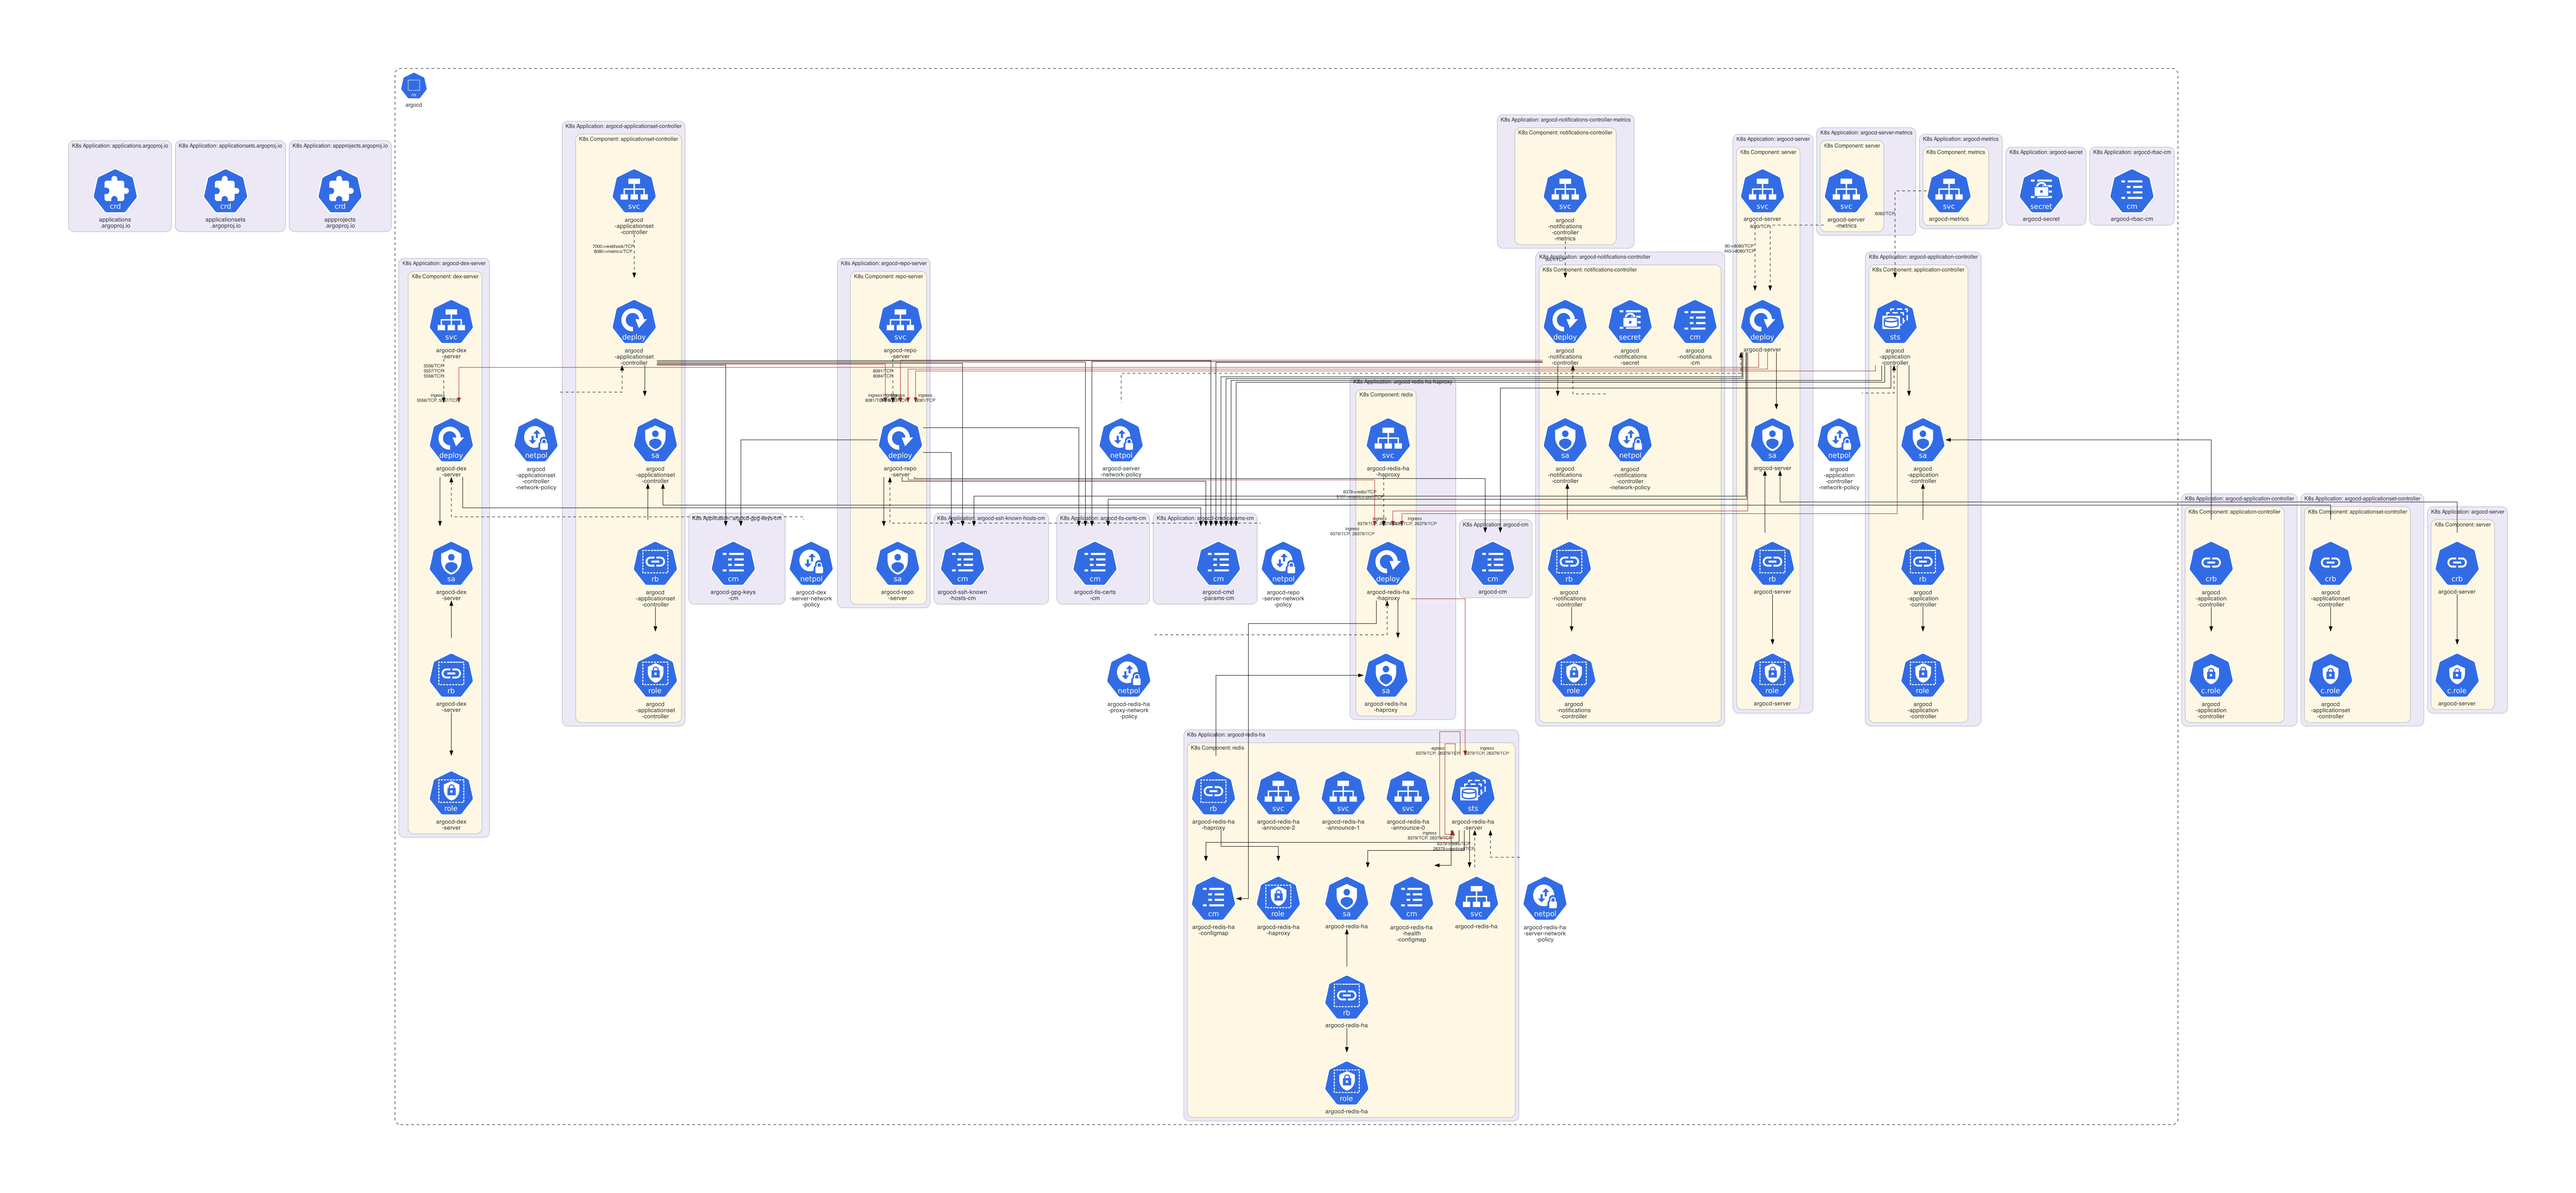
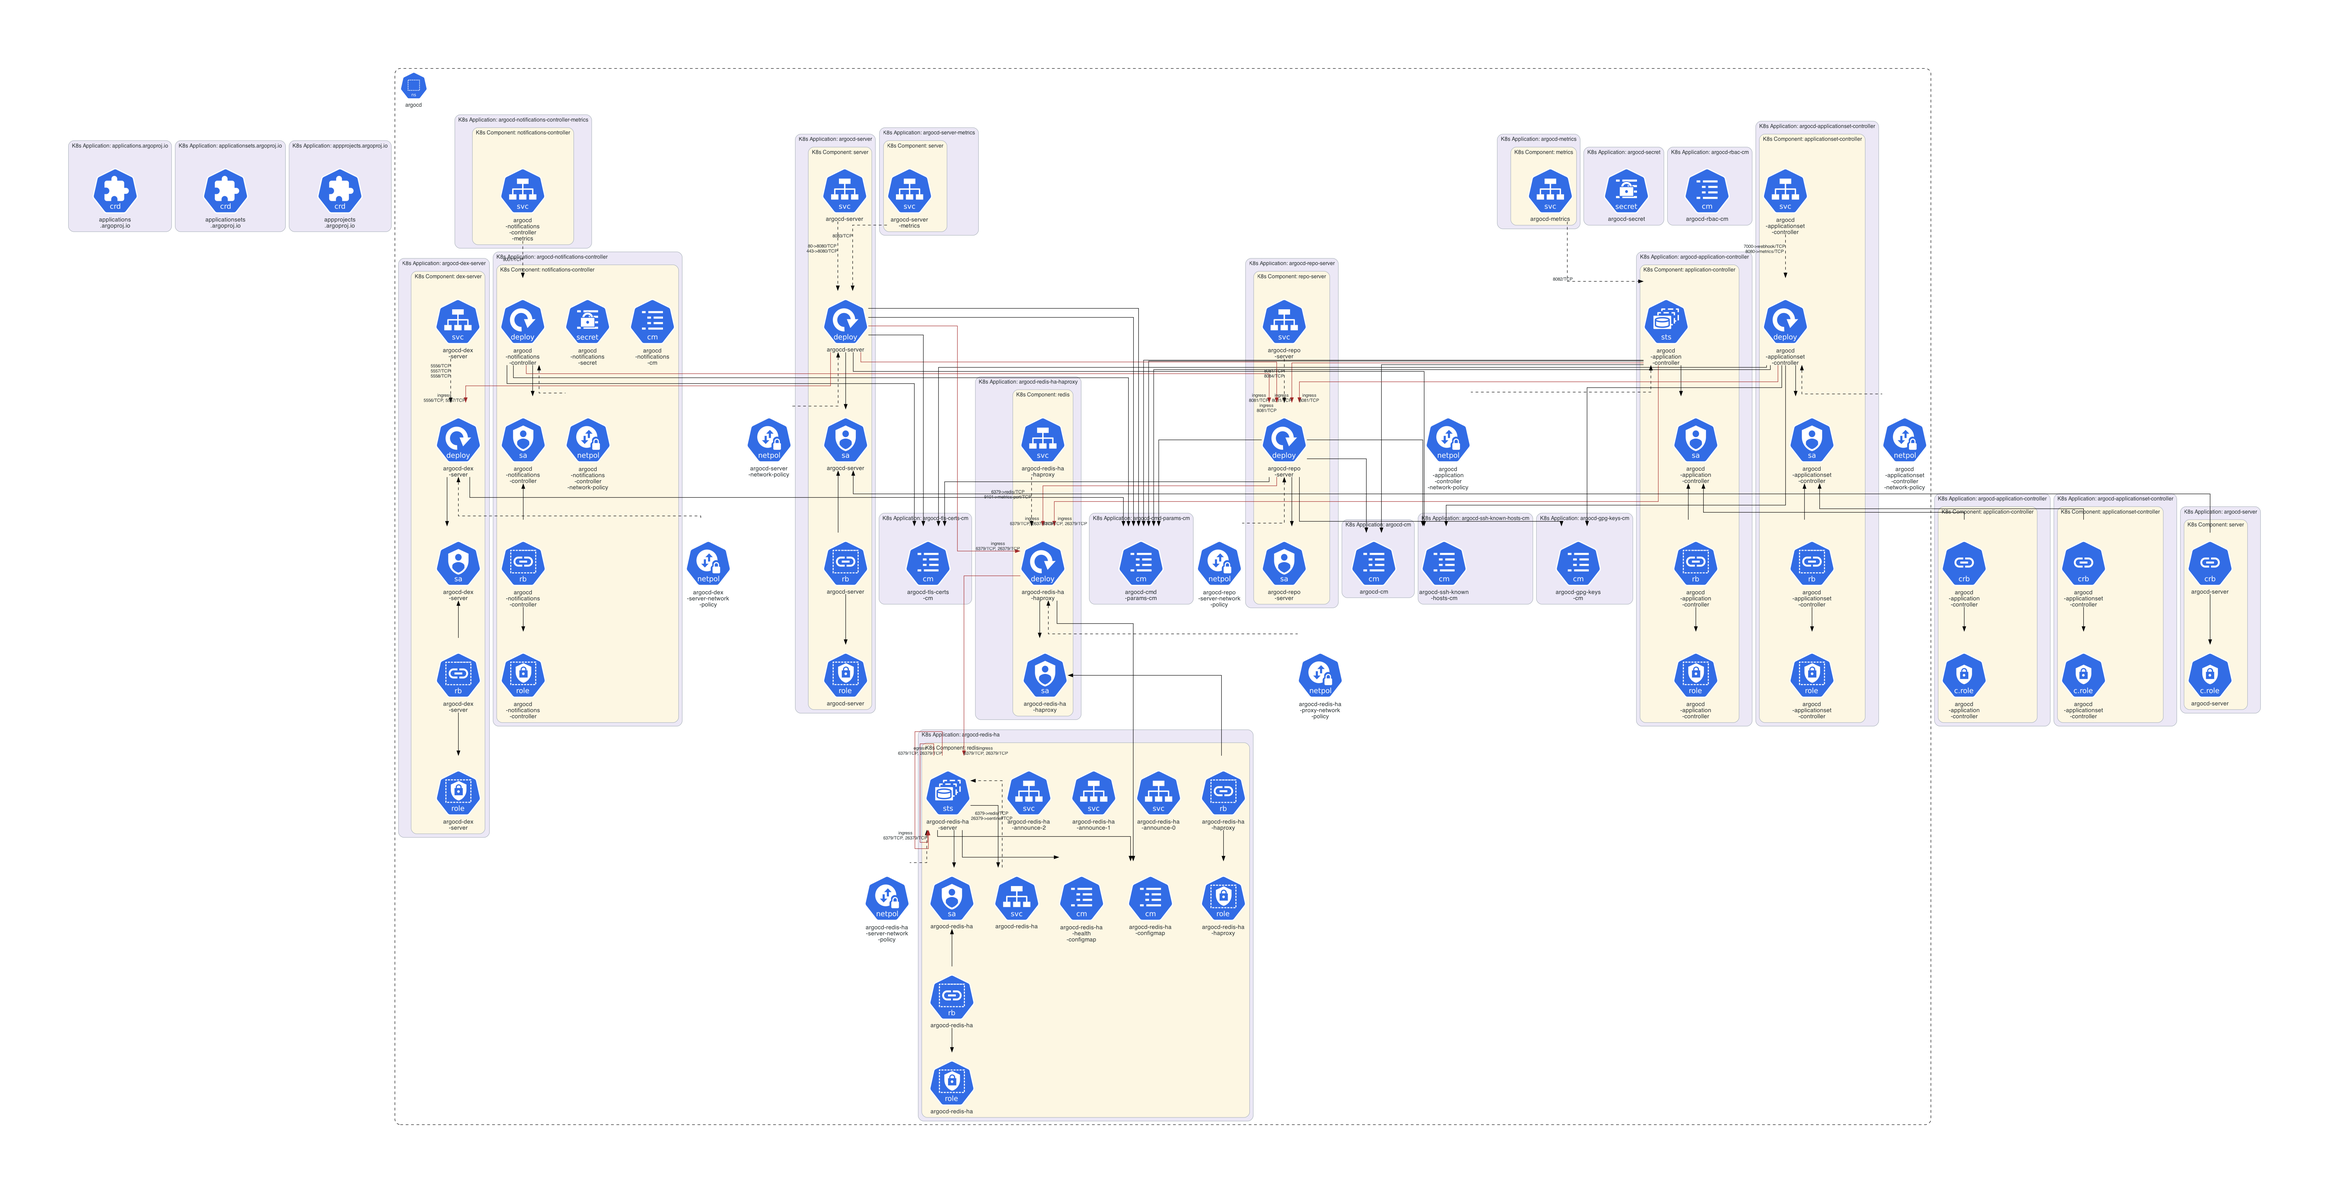
Add Argo Events examples

Changed region(s): [[0.1559, 0.0934, 0.9665, 0.9652], [0.0312, 0.1245, 0.1559, 0.1868], [0.1559, 0.0623, 0.1871, 0.0934]]

diff --git a/examples/argo/README.md b/examples/argo/README.md
@@ -83,3 +83,7 @@ Architecture diagram for [Argo Events Helm Chart](https://artifacthub.io/package
 Architecture diagram for [Argo Events Install Manifest](https://github.com/argoproj/argo-events/blob/master/manifests/install.yaml):
 
 ![diagrams/argoproj-argo-events-manifests-install.png](diagrams/argoproj-argo-events-manifests-install.png)
+
+Architecture diagram for [Argo Events Examples](https://github.com/argoproj/argo-events/tree/master/examples):
+
+![diagrams/argoproj-argo-events-examples.png](diagrams/argoproj-argo-events-examples.png)
